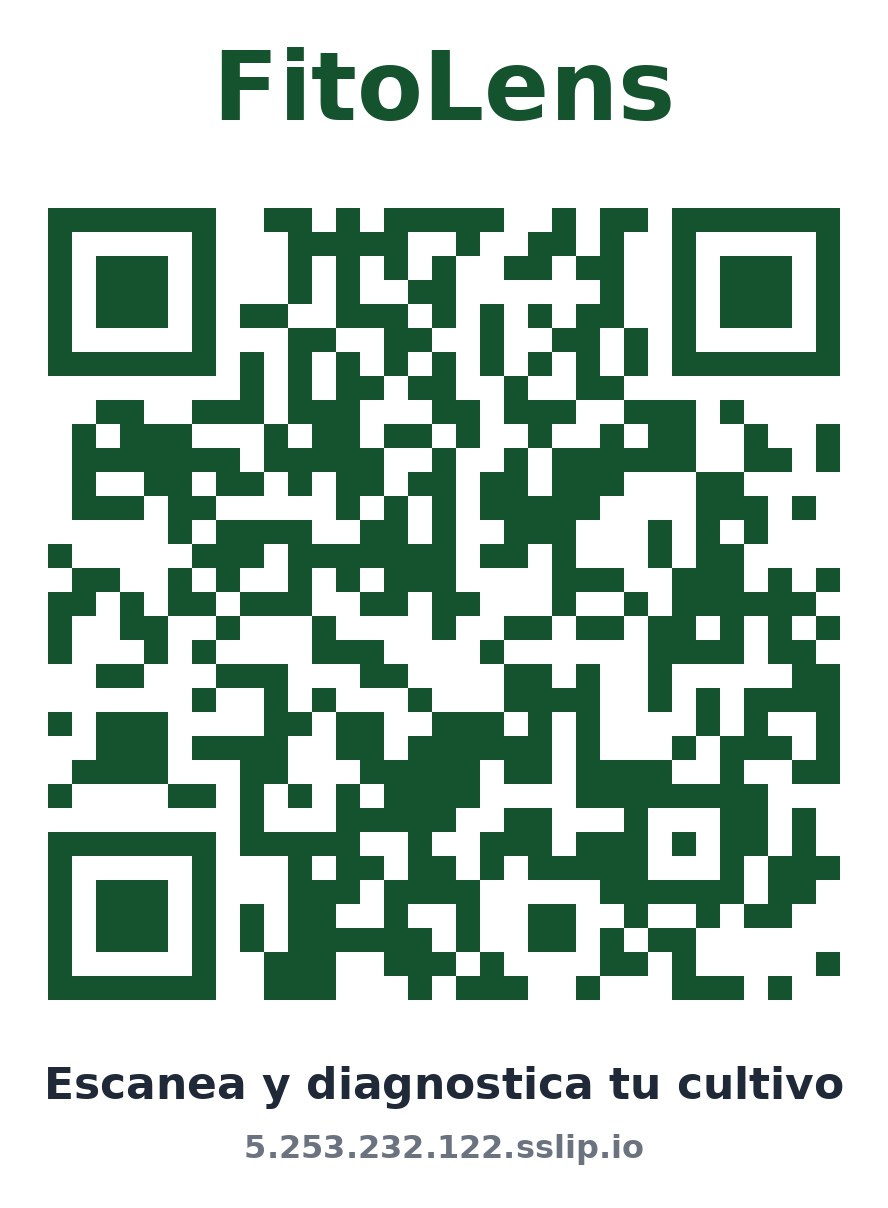
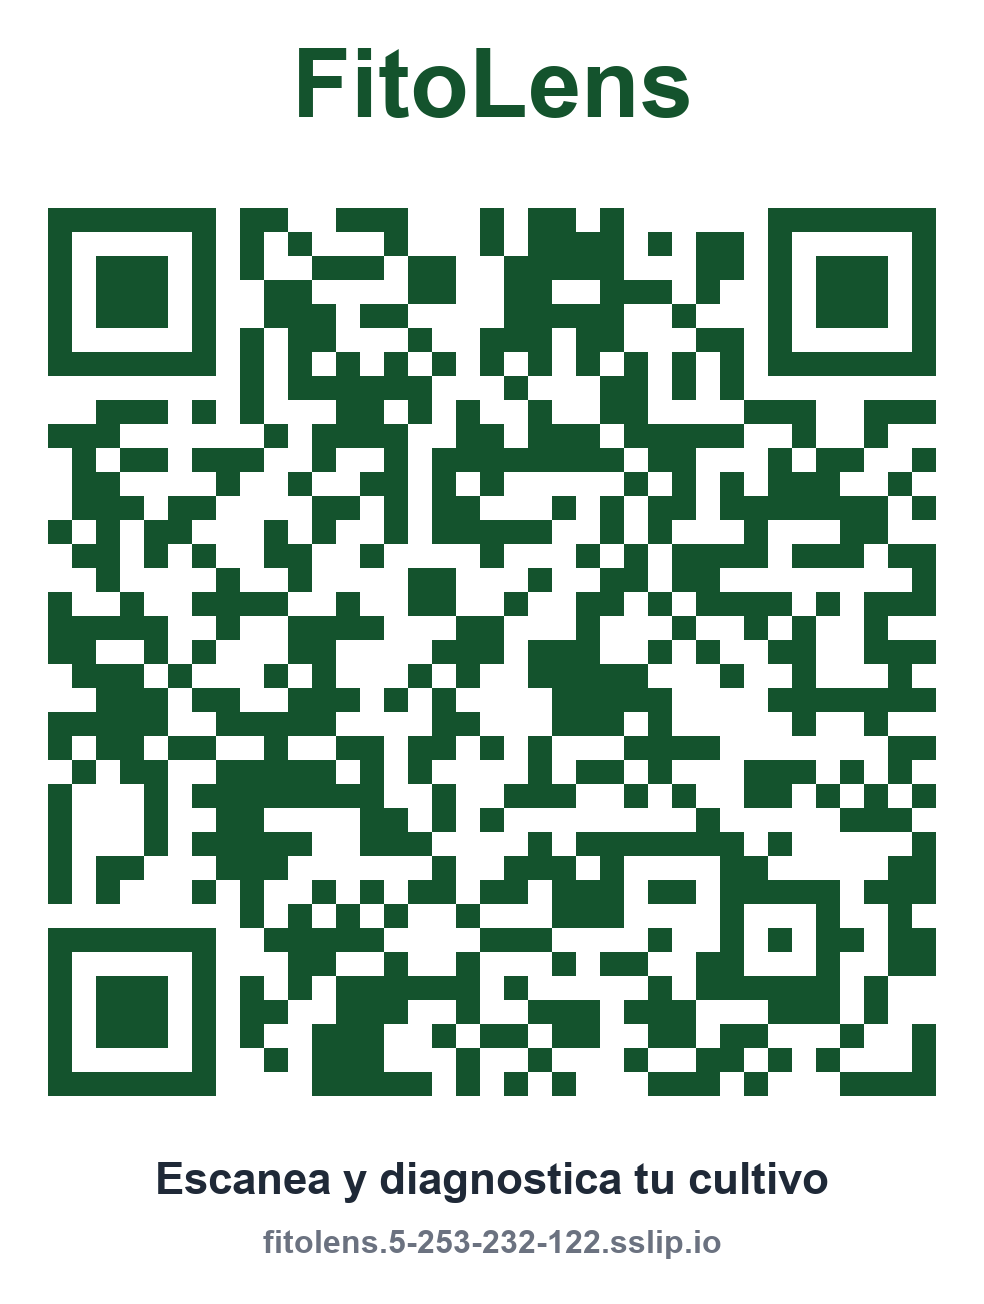
QR y guía con la nueva dirección fitolens.5-253-232-122.sslip.io (VPS compartido con nginx)

diff --git a/docs/instalar_vps.md b/docs/instalar_vps.md
@@ -1,9 +1,12 @@
 # Instalar FitoLens en tu VPS (paso a paso)
 
-- VPS: Contabo Cloud VPS 6 · IP **5.253.232.122**
-- Dirección pública (sin dominio): **https://5.253.232.122.sslip.io**
-- Antes de empezar: el código ya debe estar subido a https://github.com/sorprendete/FitoLens
-  y el repositorio debe ser **público** (no contiene claves; las claves viven solo en el VPS).
+- VPS: Contabo Cloud VPS 6 · IP **5.253.232.122** (Ubuntu 24.04)
+- Dirección pública: **https://fitolens.5-253-232-122.sslip.io**
+- El VPS es **compartido**: el nginx del servidor ya atiende otros proyectos (cuida, dashboard, unsm)
+  en los puertos 80/443. FitoLens vive aparte en `/opt/fitolens`, con su usuario `fitolens`,
+  y nginx le pasa el tráfico a Caddy en `127.0.0.1:8088`. No toca los otros sitios.
+- El repositorio https://github.com/sorprendete/FitoLens debe ser **público** (no contiene claves;
+  las claves viven solo en `despliegue/.env`, en tu PC y en el VPS).
 
 ## Paso 1. Preparar el VPS (una sola vez, ~5 min)
 
@@ -19,9 +22,31 @@ Ya dentro del VPS, pega esta línea:
 curl -fsSL https://raw.githubusercontent.com/sorprendete/FitoLens/main/despliegue/scripts/preparar_vps.sh | bash
 ```
 
-Instala Docker, el firewall, fail2ban y deja el código en `/opt/fitolens`.
+Instala Docker, fail2ban, deja el firewall con 22/80/443 abiertos y el código en `/opt/fitolens`.
 
-## Paso 2. Arrancar FitoLens (~3 min)
+## Paso 2. Configuración (.env y modo nginx)
+
+Desde tu PC, copia el `.env` (tiene las claves, el token del bot y tu correo):
+
+```bash
+scp D:\laragon\www\FitoLens\despliegue\.env fitolens@5.253.232.122:/opt/fitolens/despliegue/.env
+```
+
+En el VPS, como `fitolens`, crea el archivo que deja libres los puertos 80/443
+(no se sube a GitHub):
+
+```bash
+cat > /opt/fitolens/despliegue/docker-compose.override.yml <<'EOF'
+services:
+  caddy:
+    ports: !override
+      - "127.0.0.1:8088:80"
+EOF
+```
+
+El `.env` debe tener `DOMINIO=fitolens.5-253-232-122.sslip.io` y `CADDYFILE=Caddyfile.nginx`.
+
+## Paso 3. Arrancar FitoLens (~5 min, construye las imágenes)
 
 ```bash
 su - fitolens
@@ -29,17 +54,32 @@ cd /opt/fitolens/despliegue
 ./fitolens.sh instalar
 ```
 
-Te pregunta dos cosas:
-- **Dominio**: escribe `5.253.232.122.sslip.io`
-- **Correo**: tu correo (sirve para el certificado HTTPS y como usuario admin)
+Si todavía no existe el Release `modelos-v1` con los modelos entrenados, crea antes modelos de prueba:
 
-Al final muestra la **clave del admin**: guárdala. Abre https://5.253.232.122.sslip.io en el celular.
+```bash
+mkdir -p /opt/fitolens/modelos
+docker run --rm -v /opt/fitolens/api/scripts:/s:ro -v /opt/fitolens/modelos:/m python:3.12-slim \
+  sh -c 'pip install -q numpy onnx && python /s/crear_modelos_falsos.py /m'
+```
 
-## Paso 3. Despliegue automático desde GitHub (una sola vez)
+La clave del admin está en la línea `ADMIN_CLAVE=` del `.env`; el usuario es tu correo.
+
+## Paso 4. Publicar con nginx y HTTPS (como root)
+
+```bash
+cp /opt/fitolens/despliegue/nginx-fitolens.conf /etc/nginx/sites-available/fitolens
+ln -sf /etc/nginx/sites-available/fitolens /etc/nginx/sites-enabled/fitolens
+nginx -t && systemctl reload nginx
+certbot --nginx -d fitolens.5-253-232-122.sslip.io --redirect
+```
+
+Abre https://fitolens.5-253-232-122.sslip.io en el celular. Comprueba que tus otros sitios siguen respondiendo.
+
+## Paso 5. Despliegue automático desde GitHub (opcional, una sola vez)
 
 Así, cada `git push` a `main` actualiza el VPS solo.
 
-**3a. Crear la llave para GitHub** (en el VPS, como `fitolens`):
+**5a. Crear la llave para GitHub** (en el VPS, como `fitolens`):
 
 ```bash
 ssh-keygen -t ed25519 -N "" -f ~/.ssh/github_actions
@@ -47,26 +87,27 @@ cat ~/.ssh/github_actions.pub >> ~/.ssh/authorized_keys
 cat ~/.ssh/github_actions          # copia TODO lo que sale, incluidas las líneas BEGIN/END
 ```
 
-**3b. Secretos** → https://github.com/sorprendete/FitoLens/settings/secrets/actions → *New repository secret*:
+**5b. Secretos** → https://github.com/sorprendete/FitoLens/settings/secrets/actions → *New repository secret*:
 
 | Nombre | Valor |
 |---|---|
 | `VPS_HOST` | `5.253.232.122` |
 | `VPS_USER` | `fitolens` |
-| `VPS_SSH_KEY` | lo que copiaste en 3a |
+| `VPS_SSH_KEY` | lo que copiaste en 5a |
 
-**3c. Variable** → https://github.com/sorprendete/FitoLens/settings/variables/actions → *New repository variable*:
+**5c. Variable** → https://github.com/sorprendete/FitoLens/settings/variables/actions → *New repository variable*:
 `DESPLIEGUE_ACTIVO` = `si`
 
-**3d. Imágenes públicas** (después del primer push, cuando GitHub Actions termine en verde):
+**5d. Imágenes públicas** (después del primer push, cuando GitHub Actions termine en verde):
 entra a https://github.com/sorprendete?tab=packages, abre `fitolens-api`, `fitolens-web` y `fitolens-bot`,
 y en cada una: *Package settings* → *Change visibility* → **Public**.
 
-**3e. Probar**: https://github.com/sorprendete/FitoLens/actions → *Desplegar* → *Run workflow*.
+**5e. Probar**: https://github.com/sorprendete/FitoLens/actions → *Desplegar* → *Run workflow*.
 
-## Paso 4. QR del stand
+## Paso 6. QR del stand
 
-Ya está generado: `despliegue/qr/qr_stand.png` (apunta a https://5.253.232.122.sslip.io). Imprímelo en A4 o A5.
+Ya está generado: `despliegue/qr/qr_stand.png` (apunta a https://fitolens.5-253-232-122.sslip.io). Imprímelo en A4 o A5.
+Para otra dirección: `python despliegue/scripts/generar_qr.py https://nueva.direccion despliegue/qr/qr_stand.png`.
 
 ## Si algo falla
 
